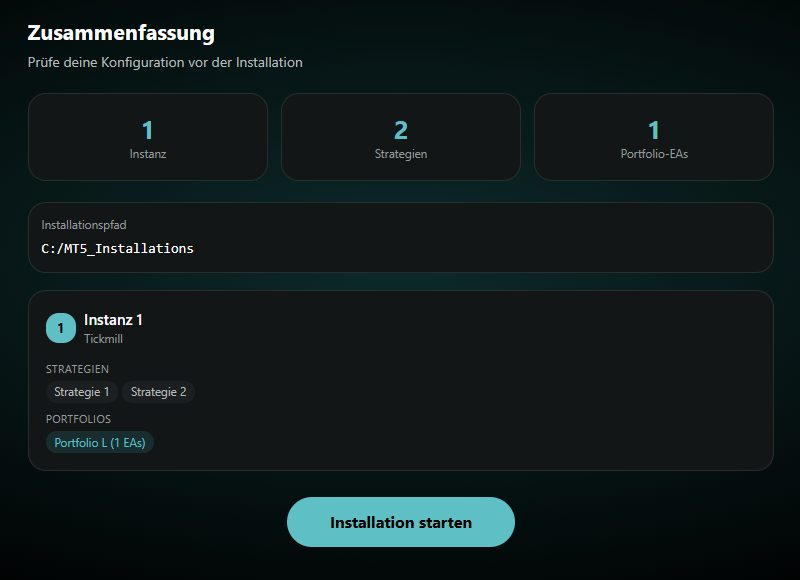
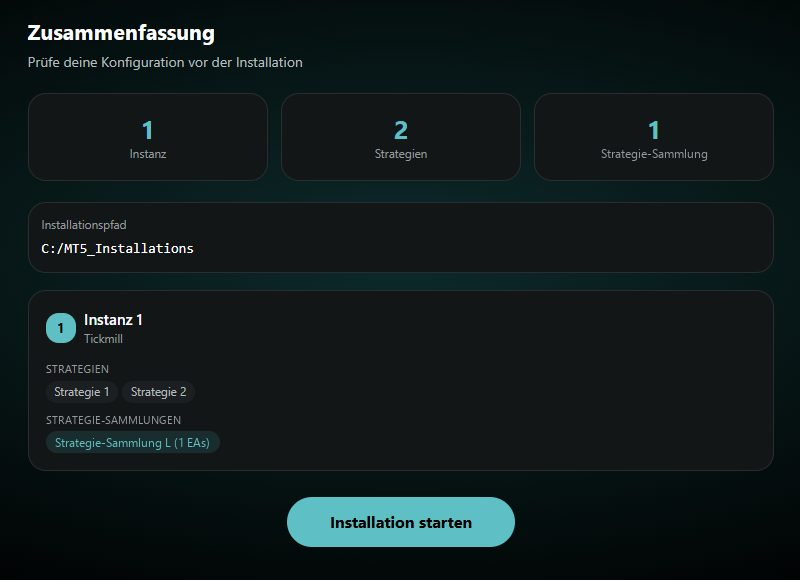
Landingpage aktualisiert (2026-11-10 08:48)

Changed region(s): [[0.0625, 0.7138, 0.2812, 0.7759], [0.75, 0.2483, 0.875, 0.2793]]

diff --git a/angebot/index.html b/angebot/index.html
@@ -1095,7 +1095,8 @@ wahrscheinlich eine Challenge zu bestehen ist, bevor du einen Euro riskierst.</p
 <div class="ath-gal teal" data-galerie="ct">
 <div class="ath-karte reveal breit" style="--i:0"><a class="gal-bild ath-bild" href="../ct-galerie/gross/ct01_start.jpg" data-gruppe="Customer Terminal"><img src="../ct-galerie/klein/ct01_start.jpg" alt="Startseite des Customer Terminals" loading="lazy" decoding="async"></a><div class="ath-text"><div class="n">Überblick</div><h3>Alles an einem Ort</h3><p>Installer, Updater, Werkzeuge und Live-Performance in einer Oberfläche. Das Terminal bekommst du schon als <b class="ht">Free Member kostenlos</b>.</p></div></div>
 <div class="ath-karte reveal" style="--i:1"><a class="gal-bild ath-bild" href="../ct-galerie/gross/ct02_installer.jpg" data-gruppe="Customer Terminal"><img src="../ct-galerie/klein/ct02_installer.jpg" alt="Willkommensseite des Installers" loading="lazy" decoding="async"></a><div class="ath-text"><div class="n">Schritt 1</div><h3>Installer starten</h3><p>Der Installer richtet MetaTrader 5 für dich ein: Broker-Software laden, eigene Instanzen anlegen, alles sauber an einem Ort abgelegt.</p></div></div>
-<div class="ath-karte reveal breit" style="--i:2"><a class="gal-bild ath-bild ganz" href="../ct-galerie/gross/ct03_auswahl.jpg" data-gruppe="Customer Terminal"><img src="../ct-galerie/klein/ct03_auswahl.jpg" alt="Auswahl der Strategien im Installer" loading="lazy" decoding="async"></a><div class="ath-text"><div class="n">Schritt 2</div><h3>Strategien wählen</h3><p>Im Installer wählst du eine <b class="ht">fertig abgestimmte Strategie-Sammlung</b> in der Fassung für deinen Broker oder hakst einzelne Strategien an. Programmieren oder Dateien kopieren musst du nicht.</p></div></div>
+<div class="ath-karte reveal breit" style="--i:2"><a class="gal-bild ath-bild ganz" href="../ct-galerie/gross/ct03b_sammlungen.jpg" data-gruppe="Customer Terminal"><img src="../ct-galerie/klein/ct03b_sammlungen.jpg" alt="Auswahl der Strategie-Sammlungen im Installer" loading="lazy" decoding="async"></a><div class="ath-text"><div class="n">Schritt 2</div><h3>Fertige Strategie-Sammlung wählen</h3><p>Im Reiter „Strategie-Sammlungen“ suchst du dir eine <b class="ht">fertig abgestimmte Strategie-Sammlung</b> in der Fassung für deinen Broker aus. Ein Häkchen, und alle enthaltenen Strategien kommen als ein einziger Bot.</p></div></div>
+<div class="ath-karte reveal" style="--i:0"><a class="gal-bild ath-bild ganz" href="../ct-galerie/gross/ct03_auswahl.jpg" data-gruppe="Customer Terminal"><img src="../ct-galerie/klein/ct03_auswahl.jpg" alt="Auswahl von Einzelstrategien im Installer" loading="lazy" decoding="async"></a><div class="ath-text"><div class="n">Schritt 2</div><h3>Oder Einzelstrategien</h3><p>Wer lieber selbst kombiniert, hakt einzelne Strategien an. Programmieren oder Dateien kopieren musst du nicht.</p></div></div>
 <div class="ath-karte reveal" style="--i:1"><a class="gal-bild ath-bild ganz" href="../ct-galerie/gross/ct04_zusammenfassung.jpg" data-gruppe="Customer Terminal"><img src="../ct-galerie/klein/ct04_zusammenfassung.jpg" alt="Zusammenfassung vor der Installation" loading="lazy" decoding="async"></a><div class="ath-text"><div class="n">Schritt 3</div><h3>Prüfen und installieren</h3><p>Die Zusammenfassung zeigt, was wohin kommt. Ein Klick, und die Bots liegen im richtigen MetaTrader.</p></div></div>
 <div class="ath-karte reveal breit" style="--i:2"><a class="gal-bild ath-bild" href="../ct-galerie/gross/ct05_updater.jpg" data-gruppe="Customer Terminal"><img src="../ct-galerie/klein/ct05_updater.jpg" alt="Updater mit lokalen Instanzen und installierten Bots" loading="lazy" decoding="async"></a><div class="ath-text"><div class="n">Danach</div><h3>Immer aktuell</h3><p>Der Updater erkennt deine MetaTrader-Instanzen, zeigt, welche Bots darauf laufen, und spielt <b class="ht">neue Versionen</b> mit einem Klick ein.</p></div></div>
 <div class="ath-karte reveal" style="--i:0"><a class="gal-bild ath-bild" href="../ct-galerie/gross/ct06_seasonal.jpg" data-gruppe="Customer Terminal"><img src="../ct-galerie/klein/ct06_seasonal.jpg" alt="Seasonal Screener mit Heatmap" loading="lazy" decoding="async"></a><div class="ath-text"><div class="n">Werkzeug</div><h3>Saisonale Muster finden</h3><p>Der <b class="ht">Seasonal Screener</b> prüft Kursdaten aus über 25 Jahren und zeigt, welche Einstiege und Haltedauern sich Jahr für Jahr wiederholen.</p></div></div>

diff --git a/index.html b/index.html
@@ -1099,7 +1099,8 @@ wahrscheinlich eine Challenge zu bestehen ist, bevor du einen Euro riskierst.</p
 <div class="ath-gal teal" data-galerie="ct">
 <div class="ath-karte reveal breit" style="--i:0"><a class="gal-bild ath-bild" href="ct-galerie/gross/ct01_start.jpg" data-gruppe="Customer Terminal"><img src="ct-galerie/klein/ct01_start.jpg" alt="Startseite des Customer Terminals" loading="lazy" decoding="async"></a><div class="ath-text"><div class="n">Überblick</div><h3>Alles an einem Ort</h3><p>Installer, Updater, Werkzeuge und Live-Performance in einer Oberfläche. Das Terminal bekommst du schon als <b class="ht">Free Member kostenlos</b>.</p></div></div>
 <div class="ath-karte reveal" style="--i:1"><a class="gal-bild ath-bild" href="ct-galerie/gross/ct02_installer.jpg" data-gruppe="Customer Terminal"><img src="ct-galerie/klein/ct02_installer.jpg" alt="Willkommensseite des Installers" loading="lazy" decoding="async"></a><div class="ath-text"><div class="n">Schritt 1</div><h3>Installer starten</h3><p>Der Installer richtet MetaTrader 5 für dich ein: Broker-Software laden, eigene Instanzen anlegen, alles sauber an einem Ort abgelegt.</p></div></div>
-<div class="ath-karte reveal breit" style="--i:2"><a class="gal-bild ath-bild ganz" href="ct-galerie/gross/ct03_auswahl.jpg" data-gruppe="Customer Terminal"><img src="ct-galerie/klein/ct03_auswahl.jpg" alt="Auswahl der Strategien im Installer" loading="lazy" decoding="async"></a><div class="ath-text"><div class="n">Schritt 2</div><h3>Strategien wählen</h3><p>Im Installer wählst du eine <b class="ht">fertig abgestimmte Strategie-Sammlung</b> in der Fassung für deinen Broker oder hakst einzelne Strategien an. Programmieren oder Dateien kopieren musst du nicht.</p></div></div>
+<div class="ath-karte reveal breit" style="--i:2"><a class="gal-bild ath-bild ganz" href="ct-galerie/gross/ct03b_sammlungen.jpg" data-gruppe="Customer Terminal"><img src="ct-galerie/klein/ct03b_sammlungen.jpg" alt="Auswahl der Strategie-Sammlungen im Installer" loading="lazy" decoding="async"></a><div class="ath-text"><div class="n">Schritt 2</div><h3>Fertige Strategie-Sammlung wählen</h3><p>Im Reiter „Strategie-Sammlungen“ suchst du dir eine <b class="ht">fertig abgestimmte Strategie-Sammlung</b> in der Fassung für deinen Broker aus. Ein Häkchen, und alle enthaltenen Strategien kommen als ein einziger Bot.</p></div></div>
+<div class="ath-karte reveal" style="--i:0"><a class="gal-bild ath-bild ganz" href="ct-galerie/gross/ct03_auswahl.jpg" data-gruppe="Customer Terminal"><img src="ct-galerie/klein/ct03_auswahl.jpg" alt="Auswahl von Einzelstrategien im Installer" loading="lazy" decoding="async"></a><div class="ath-text"><div class="n">Schritt 2</div><h3>Oder Einzelstrategien</h3><p>Wer lieber selbst kombiniert, hakt einzelne Strategien an. Programmieren oder Dateien kopieren musst du nicht.</p></div></div>
 <div class="ath-karte reveal" style="--i:1"><a class="gal-bild ath-bild ganz" href="ct-galerie/gross/ct04_zusammenfassung.jpg" data-gruppe="Customer Terminal"><img src="ct-galerie/klein/ct04_zusammenfassung.jpg" alt="Zusammenfassung vor der Installation" loading="lazy" decoding="async"></a><div class="ath-text"><div class="n">Schritt 3</div><h3>Prüfen und installieren</h3><p>Die Zusammenfassung zeigt, was wohin kommt. Ein Klick, und die Bots liegen im richtigen MetaTrader.</p></div></div>
 <div class="ath-karte reveal breit" style="--i:2"><a class="gal-bild ath-bild" href="ct-galerie/gross/ct05_updater.jpg" data-gruppe="Customer Terminal"><img src="ct-galerie/klein/ct05_updater.jpg" alt="Updater mit lokalen Instanzen und installierten Bots" loading="lazy" decoding="async"></a><div class="ath-text"><div class="n">Danach</div><h3>Immer aktuell</h3><p>Der Updater erkennt deine MetaTrader-Instanzen, zeigt, welche Bots darauf laufen, und spielt <b class="ht">neue Versionen</b> mit einem Klick ein.</p></div></div>
 <div class="ath-karte reveal" style="--i:0"><a class="gal-bild ath-bild" href="ct-galerie/gross/ct06_seasonal.jpg" data-gruppe="Customer Terminal"><img src="ct-galerie/klein/ct06_seasonal.jpg" alt="Seasonal Screener mit Heatmap" loading="lazy" decoding="async"></a><div class="ath-text"><div class="n">Werkzeug</div><h3>Saisonale Muster finden</h3><p>Der <b class="ht">Seasonal Screener</b> prüft Kursdaten aus über 25 Jahren und zeigt, welche Einstiege und Haltedauern sich Jahr für Jahr wiederholen.</p></div></div>

diff --git a/en/index.html b/en/index.html
@@ -1098,7 +1098,8 @@ June 8, 2026. <b class="hg">Visible even with the free membership.</b></p></div>
 <div class="ath-gal teal" data-galerie="ct">
 <div class="ath-karte reveal breit" style="--i:0"><a class="gal-bild ath-bild" href="../ct-galerie/gross/ct01_start.jpg" data-gruppe="Customer Terminal"><img src="../ct-galerie/klein/ct01_start.jpg" alt="Start screen of the Customer Terminal" loading="lazy" decoding="async"></a><div class="ath-text"><div class="n">Overview</div><h3>Everything in one place</h3><p>Installer, updater, tools and live performance in one interface. You get the terminal <b class="ht">for free as a Free Member</b>.</p></div></div>
 <div class="ath-karte reveal" style="--i:1"><a class="gal-bild ath-bild" href="../ct-galerie/gross/ct02_installer.jpg" data-gruppe="Customer Terminal"><img src="../ct-galerie/klein/ct02_installer.jpg" alt="Welcome screen of the installer" loading="lazy" decoding="async"></a><div class="ath-text"><div class="n">Step 1</div><h3>Start the installer</h3><p>The installer sets up MetaTrader 5 for you: download the broker software, create your own instances, everything stored neatly in one place.</p></div></div>
-<div class="ath-karte reveal breit" style="--i:2"><a class="gal-bild ath-bild ganz" href="../ct-galerie/gross/ct03_auswahl.jpg" data-gruppe="Customer Terminal"><img src="../ct-galerie/klein/ct03_auswahl.jpg" alt="Selecting strategies in the installer" loading="lazy" decoding="async"></a><div class="ath-text"><div class="n">Step 2</div><h3>Choose strategies</h3><p>In the installer you pick a <b class="ht">fully tuned strategy collection</b> in the version for your broker or tick individual strategies. No programming, no copying files.</p></div></div>
+<div class="ath-karte reveal breit" style="--i:2"><a class="gal-bild ath-bild ganz" href="../ct-galerie/gross/ct03b_sammlungen.jpg" data-gruppe="Customer Terminal"><img src="../ct-galerie/klein/ct03b_sammlungen.jpg" alt="Selecting strategy collections in the installer" loading="lazy" decoding="async"></a><div class="ath-text"><div class="n">Step 2</div><h3>Pick a ready-made strategy collection</h3><p>In the “Strategie-Sammlungen” tab (strategy collections) you choose a <b class="ht">fully tuned strategy collection</b> in the version for your broker. One tick and all strategies inside come as one single bot.</p></div></div>
+<div class="ath-karte reveal" style="--i:0"><a class="gal-bild ath-bild ganz" href="../ct-galerie/gross/ct03_auswahl.jpg" data-gruppe="Customer Terminal"><img src="../ct-galerie/klein/ct03_auswahl.jpg" alt="Selecting single strategies in the installer" loading="lazy" decoding="async"></a><div class="ath-text"><div class="n">Step 2</div><h3>Or single strategies</h3><p>If you prefer to combine yourself, tick individual strategies. No programming, no copying files.</p></div></div>
 <div class="ath-karte reveal" style="--i:1"><a class="gal-bild ath-bild ganz" href="../ct-galerie/gross/ct04_zusammenfassung.jpg" data-gruppe="Customer Terminal"><img src="../ct-galerie/klein/ct04_zusammenfassung.jpg" alt="Summary before installation" loading="lazy" decoding="async"></a><div class="ath-text"><div class="n">Step 3</div><h3>Check and install</h3><p>The summary shows what goes where. One click and the bots are in the right MetaTrader.</p></div></div>
 <div class="ath-karte reveal breit" style="--i:2"><a class="gal-bild ath-bild" href="../ct-galerie/gross/ct05_updater.jpg" data-gruppe="Customer Terminal"><img src="../ct-galerie/klein/ct05_updater.jpg" alt="Updater with local instances and installed bots" loading="lazy" decoding="async"></a><div class="ath-text"><div class="n">Afterwards</div><h3>Always up to date</h3><p>The updater detects your MetaTrader instances, shows which bots run on them and installs <b class="ht">new versions</b> with one click.</p></div></div>
 <div class="ath-karte reveal" style="--i:0"><a class="gal-bild ath-bild" href="../ct-galerie/gross/ct06_seasonal.jpg" data-gruppe="Customer Terminal"><img src="../ct-galerie/klein/ct06_seasonal.jpg" alt="Seasonal Screener with heatmap" loading="lazy" decoding="async"></a><div class="ath-text"><div class="n">Tool</div><h3>Find seasonal patterns</h3><p>The <b class="ht">Seasonal Screener</b> checks more than 25 years of price data and shows which entries and holding periods repeat year after year.</p></div></div>
